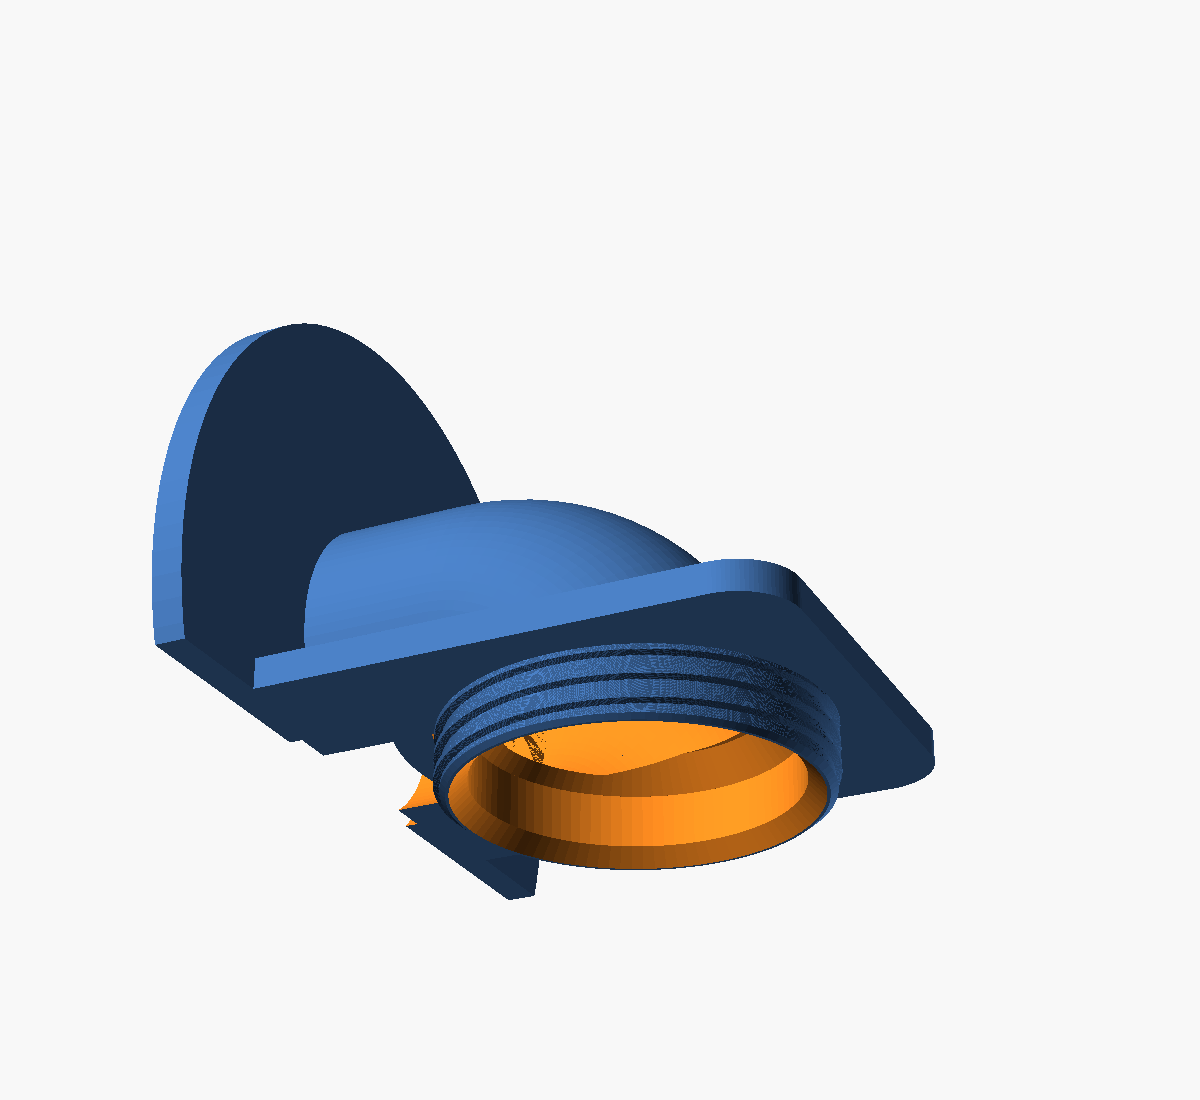
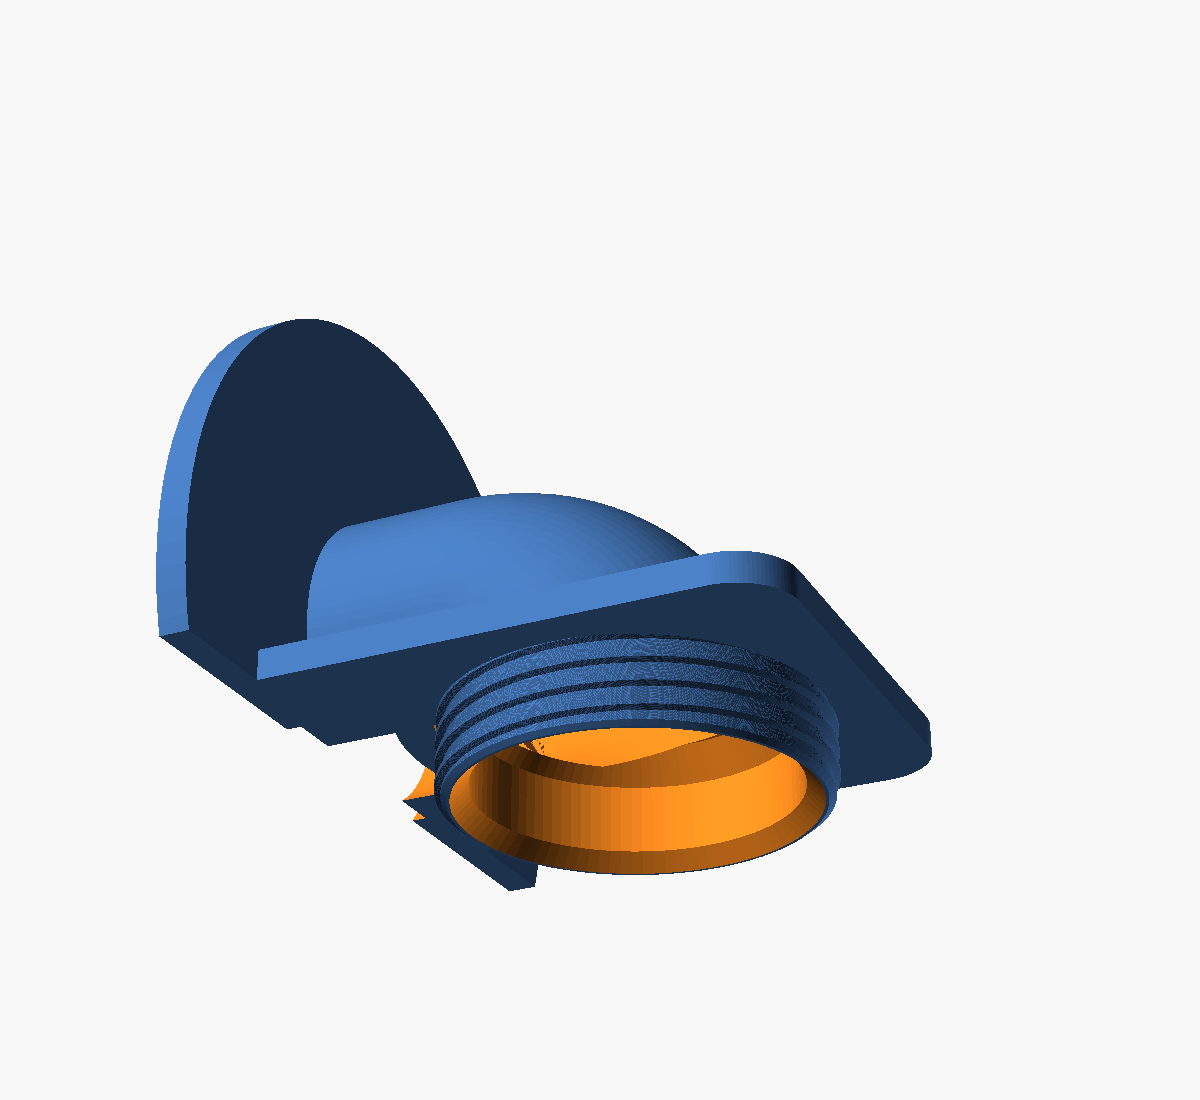
corner_elbow: the same longer neck and real pipe-end recess as the bend
The elbow screws into the same hole in the same panel and is held by the same
nut, so it wants the same two corrections.

stuss_depth 7 -> 9. Every millimetre of the neck is thread, so that is the
whole change in thread: 9 mm and three turns become 11 mm and 3.7. The count
is derived (thread_turns) and echoed, rather than left to be divided out.

The recess in the glue face was Ø40.8 and pipe_stub + 0.7 + 0.1 deep -- a
fudge factor on a measurement of how proud the pipe stands. It gets its own
depth and its own clearance: Ø42.8 x 2 mm. The old assert, glue_t > pipe_stub
+ 1.5, was guarding the seat behind the recess by way of the stub; it now
says what it means in two parts -- the recess must clear the stub, and what
is left of glue_t behind it must still be a seat.

All eleven presets in corner_elbow.json render manifold, including tight
(panel_bite 6), tight_open and both of their print layouts.

diff --git a/CORNER_BEND.md b/CORNER_BEND.md
@@ -121,8 +121,11 @@ cable you have, this is the wrong one of the two parts; take the chamber.
 ## The plates
 
 The **glue plate** is a plain Ø94 disc, `glue_t` thick, cut off flat by the back panel. That
-cut is what makes the part 67 mm tall. A recess in its face takes the 1 mm of conduit
-standing proud of the mount.
+cut is what makes the part 67 mm tall. A recess in its face — **Ø42.8 × 2 mm deep** — takes
+the cut conduit end. Its depth is given outright rather than derived from `pipe_stub`, because
+a conduit is never cut as square as the drawing says and the plate has to bed on the *mount*,
+not on the pipe's ragged end; what is left of `glue_t` behind it is the annular seat the pipe
+butts against, and an assert keeps it from being cut away.
 
 The **panel plate** is squared, not round: at the same overhang past the hole it gives the
 nut more ring to pull on, and it is the one face with nothing round to match. It runs all the
@@ -150,7 +153,7 @@ It is worth being concrete about why, because it is the single biggest decision 
 | **the glue face** | 39.8 cm² | 11.2 cm² |
 | the threaded neck | 0.6 cm² | 40.6 cm² |
 
-Standing on the neck, the *entire* bottom face of the part floats 9 mm up on a Ø46 ring and
+Standing on the neck, the *entire* bottom face of the part floats 11 mm up on a Ø46 ring and
 the slicer fills the whole footprint. Standing on the glue face, a Ø94 disc is welded to the
 bed and almost everything else grows upward off it:
 
@@ -282,9 +285,12 @@ flange); the hole's near edge is 18 mm out of the corner
 Panel plate overhangs the hole by 5 mm all round for the nut
 ```
 
-The stuss carries 7 mm into the cabinet, where the fin-grip nut from the sibling project
-[corrugated-pipe-bend](https://github.com/agjendem/corrugated-pipe-bend) clamps the panel
-from inside. Thread and nut are cut from the *same* twisted solid grown by
+The stuss carries 9 mm into the cabinet. Every millimetre of the neck is thread, so
+`plate_thickness + stuss_depth` is the whole threaded length: **11 mm, 3.7 turns at 3 mm
+pitch**, of which the 6 mm nut takes 2 — the rest is there to reach through a panel thicker
+than the drawing's 2 mm. The turn count is echoed on every render. Inside the cabinet the
+fin-grip nut from the sibling project
+[corrugated-pipe-bend](https://github.com/agjendem/corrugated-pipe-bend) clamps the panel. Thread and nut are cut from the *same* twisted solid grown by
 `thread_clearance`, so they cannot mismatch.
 
 ## Presets
